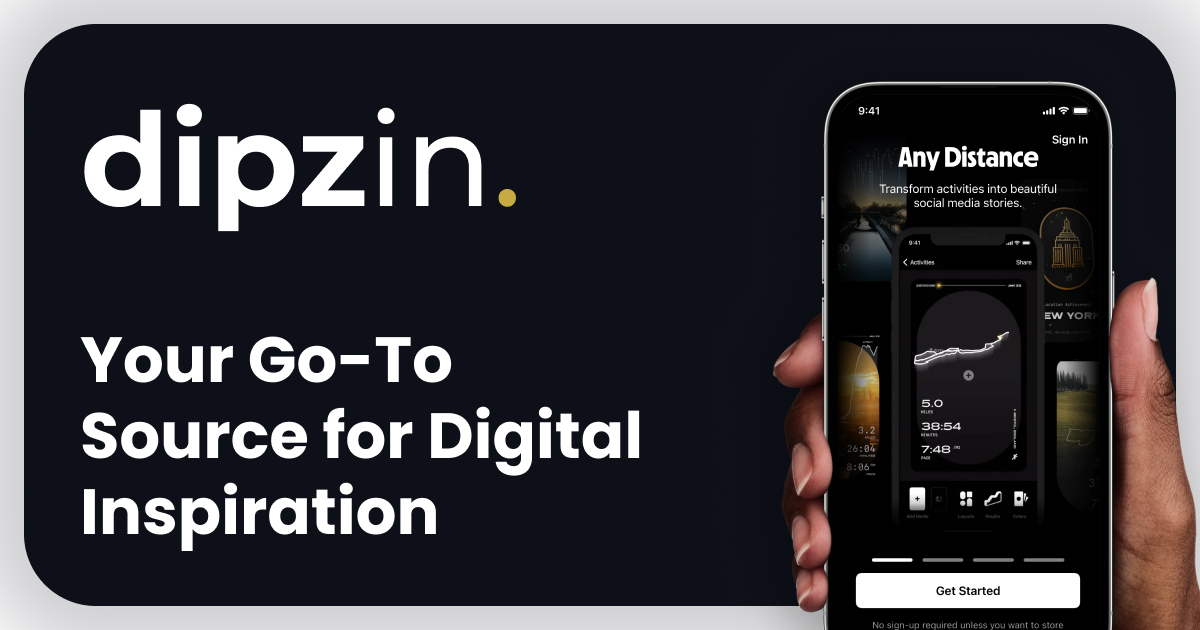
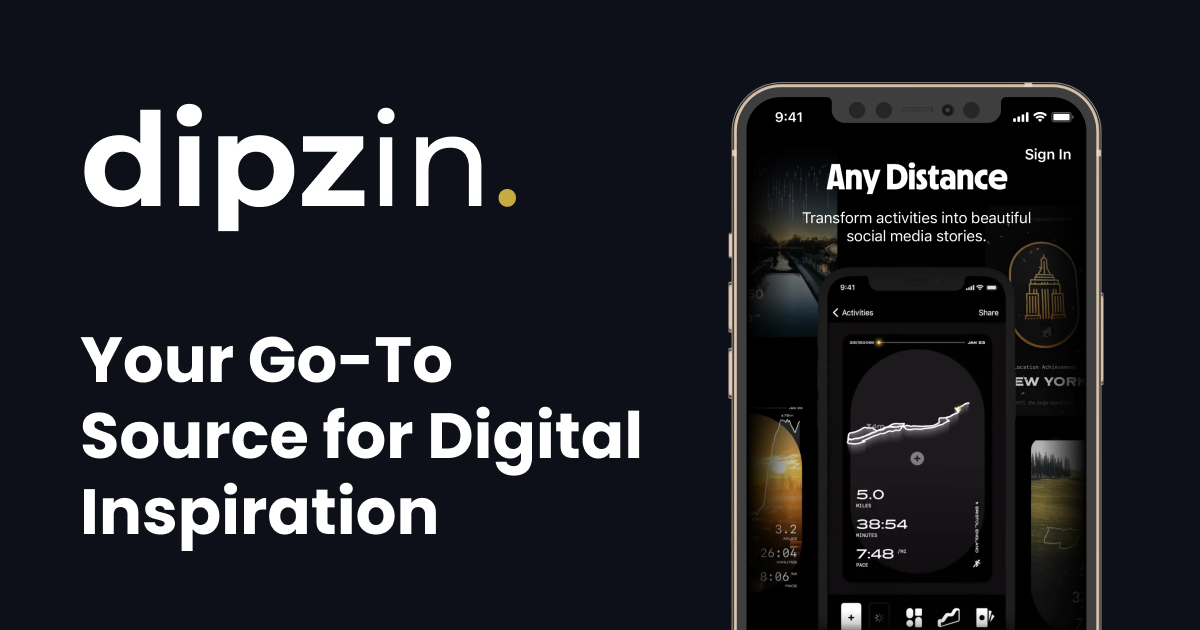
Hand update

Changed region(s): [[0.0, 0.0, 1.0, 1.0]]

diff --git a/components/auth/AuthLayout.tsx b/components/auth/AuthLayout.tsx
@@ -7,11 +7,11 @@ import Navigation from "../navigation";
 function AuthLayout({ children }: { children: React.ReactNode }) {
   const [currentImage, setCurrentImage] = useState(0);
   const images = [
-    "",
-    "/images/screen-1.png",
-    "/images/screen-2.png",
-    "/images/screen-3.png",
-    "/images/screen-4.png",
+    "/images/hand/screen-1.png",
+    "/images/hand/screen-2.png",
+    "/images/hand/screen-3.png",
+    "/images/hand/screen-4.png",
+    "/images/hand/screen-5.png",
   ];
 
   useEffect(() => {
@@ -22,7 +22,7 @@ function AuthLayout({ children }: { children: React.ReactNode }) {
   }, [currentImage]);
 
   return (
-    <div className="min-h-full bg-slate-900">
+    <div className="min-h-full ">
       <Background />
       <Navigation />
       <main className="flex lg:flex-row flex-col h-[calc(100vh-74px)] overflow-auto lg:rounded-tl-3xl">
@@ -30,20 +30,20 @@ function AuthLayout({ children }: { children: React.ReactNode }) {
           {children}
         </div>
         <div className="relative lg:block lg:w-0 w-full mx-auto lg:flex-1 flex-auto sm:ml-5">
+          <Image
+            className="absolute inset-0 h-full object-contain z-10 lg:pt-24"
+            src="/images/hand/hand.png"
+            fill
+            alt=""
+          />
           {images[currentImage] && (
             <Image
-              className="absolute inset-0 object-contain z-10 h-full lg:pt-24"
+              className="absolute inset-0 object-contain h-full lg:pt-24"
               src={images[currentImage]}
               fill
               alt=""
             />
           )}
-          <Image
-            className="absolute inset-0 h-full object-contain lg:pt-24"
-            src="/images/auth.png"
-            fill
-            alt=""
-          />
         </div>
       </main>
     </div>

diff --git a/server.js b/server.js
@@ -1,0 +1,29 @@
+const fs = require('fs')
+const path = require('path')
+const { fileURLToPath } = require('url')
+const express = require('express')
+const { createServer } = require('vite')
+
+async function createServer() {
+    const app = express()
+
+    // Create Vite server in middleware mode and configure the app type as
+    // 'custom', disabling Vite's own HTML serving logic so parent server
+    // can take control
+    const vite = await createViteServer({
+        server: { middlewareMode: true },
+        appType: 'custom'
+    })
+
+    // use vite's connect instance as middleware
+    // if you use your own express router (express.Router()), you should use router.use
+    app.use(vite.middlewares)
+
+    app.use('*', async (req, res) => {
+        // serve index.html - we will tackle this next
+    })
+
+    app.listen(5173)
+}
+
+createServer()
